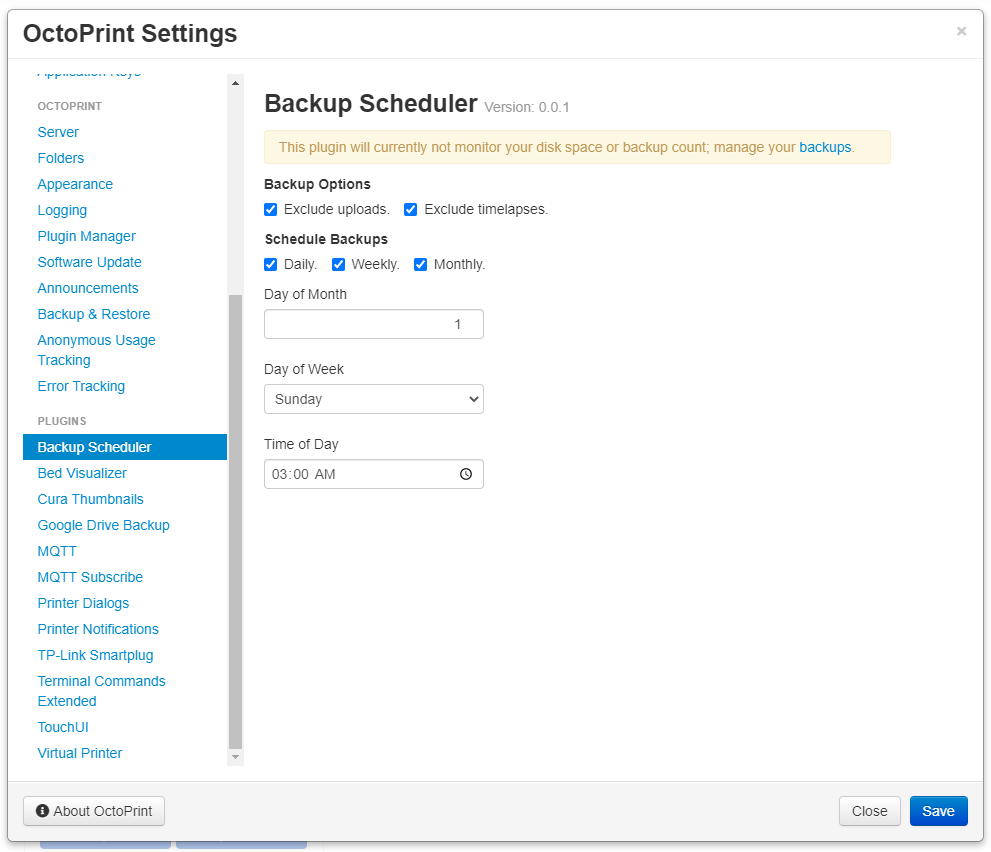
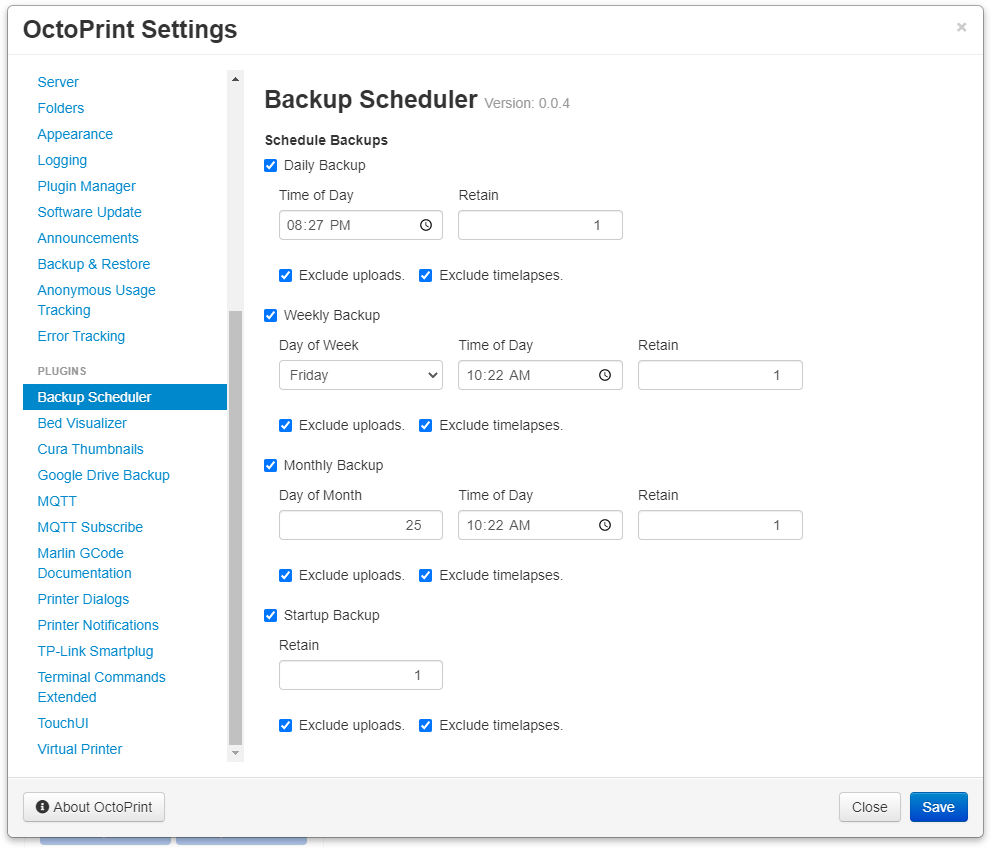
added startup event backup options

diff --git a/octoprint_backupscheduler/__init__.py b/octoprint_backupscheduler/__init__.py
@@ -4,6 +4,7 @@ from __future__ import absolute_import
 import octoprint.plugin
 from . import schedule
 import requests
+import threading
 import json
 from datetime import datetime
 from octoprint.util import RepeatedTimer
@@ -12,7 +13,8 @@ from octoprint.util import RepeatedTimer
 class BackupschedulerPlugin(octoprint.plugin.SettingsPlugin,
 							octoprint.plugin.AssetPlugin,
 							octoprint.plugin.TemplatePlugin,
-							octoprint.plugin.EventHandlerPlugin):
+							octoprint.plugin.EventHandlerPlugin,
+							octoprint.plugin.StartupPlugin):
 
 	def __init__(self):
 		self._repeatedtimer = None
@@ -30,8 +32,18 @@ class BackupschedulerPlugin(octoprint.plugin.SettingsPlugin,
 			weekly={"enabled": False, "time": "", "day": 7, "retention": 1, "exclude_uploads": False, "exclude_timelapse": False},
 			weekly_backups=[],
 			monthly={"enabled": False, "time": "", "day": 1, "retention": 1, "exclude_uploads": False, "exclude_timelapse": False},
-			monthly_backups=[]
+			monthly_backups=[],
+			startup={"enabled": False, "retention": 1, "exclude_uploads": False, "exclude_timelapse": False},
+			startup_backups=[]
 		)
+
+	# ~~ StartupPlugin mixin
+
+	def on_after_startup(self):
+		if self._settings.get_boolean(["startup", "enabled"]):
+			t = threading.Timer(1, self._perform_backup, kwargs={"backup_type": "startup_backups"})
+			t.daemon = True
+			t.start()
 
 	# ~~ EventHandlerPlugin mixin
 
@@ -108,6 +120,17 @@ class BackupschedulerPlugin(octoprint.plugin.SettingsPlugin,
 				retention = self._settings.get_int(["daily", "retention"])
 				if "daily_backups" in self.backup_pending_type:
 					self.backup_pending_type.remove("daily_backups")
+			else:
+				return
+		if backup_type == "startup_backups":
+			if self._settings.get_boolean(["startup", "enabled"]):
+				if self._settings.get_boolean(["startup", "exclude_uploads"]):
+					exclusions.append("uploads")
+				if self._settings.get_boolean(["startup", "exclude_timelapse"]):
+					exclusions.append("timelapse")
+				retention = self._settings.get_int(["startup", "retention"])
+				if "startup_backups" in self.backup_pending_type:
+					self.backup_pending_type.remove("startup_backups")
 			else:
 				return
 		self._logger.debug("Performing {} with exclusions: {}.".format(backup_type, exclusions))

diff --git a/setup.py b/setup.py
@@ -14,7 +14,7 @@ plugin_package = "octoprint_backupscheduler"
 plugin_name = "Backup Scheduler"
 
 # The plugin's version. Can be overwritten within OctoPrint's internal data via __plugin_version__ in the plugin module
-plugin_version = "0.0.3"
+plugin_version = "0.0.4-rc1"
 
 # The plugin's description. Can be overwritten within OctoPrint's internal data via __plugin_description__ in the plugin
 # module

diff --git a/README.md b/README.md
@@ -2,7 +2,7 @@
 
 This plugin allows you to schedule OctoPrint backups at regular configured intervals. If a print is on going at the time of initializing the backup  the backup will be delayed until the ongoing print is completed, cancelled, or fails.
 
-**WARNING**: This plugin currently does not monitor your disk usage or limit/reduce your backup count in any way.
+**WARNING**: This plugin currently does not monitor your disk usage in any way.
 
 ## Setup
 
@@ -17,7 +17,7 @@ or manually using this URL:
 
 ## To-Do
 
-- [ ] Options for limiting number of backups.
+- [X] ~~Options for limiting number of backups.~~
 
 ## Get Help
 
